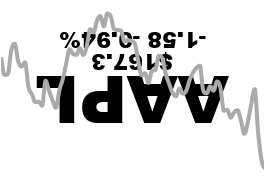
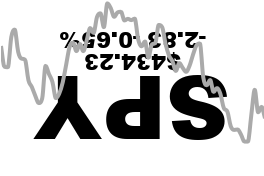
loop with buttons, kinda

Changed region(s): [[0.0, 0.0, 1.0, 0.9659], [0.9394, 0.483, 0.9697, 0.5114]]

diff --git a/tick.py b/tick.py
@@ -97,7 +97,9 @@ class Tick:
             d.text((x + self.padding, y+((self.sm_font_size + self.padding) * 2)), subsubmsg, fill=tx_clr, anchor="ms", font=font_sm)
         if self.epd and display:
             self.epd.Clear(0xFF)  
-            self.epd.display_4Gray(self.epd.getbuffer(im))
+            if self.rotate_img:
+                im = im.transpose(PIL.Image.ROTATE_180)
+            self.epd.display_4Gray(self.epd.getbuffer_4Gray(im))
         return im
 
 
@@ -181,18 +183,16 @@ class Tick:
             self.display_symbol(symbol=symbol)
         except Exception as error:
             logging.DEBUG(f"error on symbol {symbol}")
-            self.update_msgs(symbol=symbol,submsg=error.message,subsubmsg="",display=True)
             sleep_time = 10
         self.counter = (self.counter + self.increment) 
         self.idx = self.counter % size 
         sleep(sleep_time - time() % sleep_time)
 
-    def tick(self):
+    def tick(self,loop = True):
         self.symbols = self.get_tickers()
         size = len(self.symbols)
         if size > 0:
-            while True:                
-                logging.info("fetching ")
+            while loop:                
                 self.refresh()
 
     
@@ -200,6 +200,8 @@ class Tick:
     # https://dev.to/ranewallin/getting-started-with-the-waveshare-2-7-epaper-hat-on-raspberry-pi-41m8
     # https://gist.github.com/RaneWallin/fd73ddbffdabea23358f722adb9f4075
     def handleBtnPress(self,btn):
+        
+        self.update_msgs(msg=" ",submsg="Updating...",subsubmsg=" ",display=True,y=self.screen_height / 2)
         if HAS_EPD:
             self.epd.Clear(0xFF)  
             pinNum = btn.pin.number                             
@@ -208,7 +210,7 @@ class Tick:
                 self.symbols = ["^VIX"]
             else:
                 if len(self.symbols) == 1:
-                    self.symbols = self.get_tickers()
+                    self.symbols = self.get_tickers()                
                 if pinNum == FWD:
                     self.increment = 1                    
                 if pinNum == BCKWRD:                    
@@ -221,7 +223,8 @@ class Tick:
             size = len(self.symbols)
             self.counter = (self.counter + self.increment) 
             self.idx = self.counter % size 
-            self.refresh() 
+        
+        self.refresh()
             
 
 
